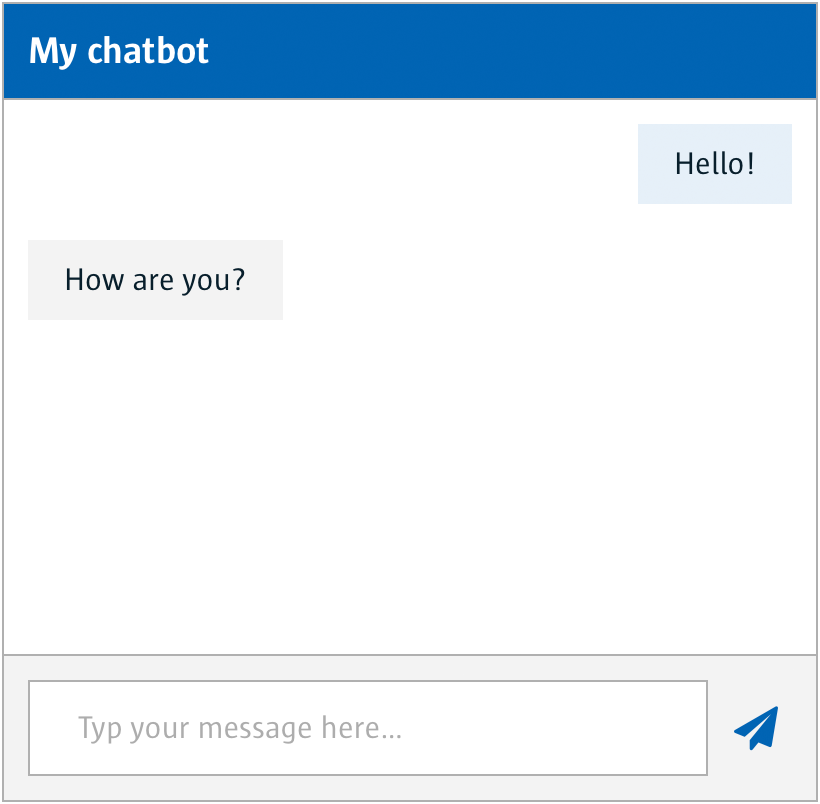
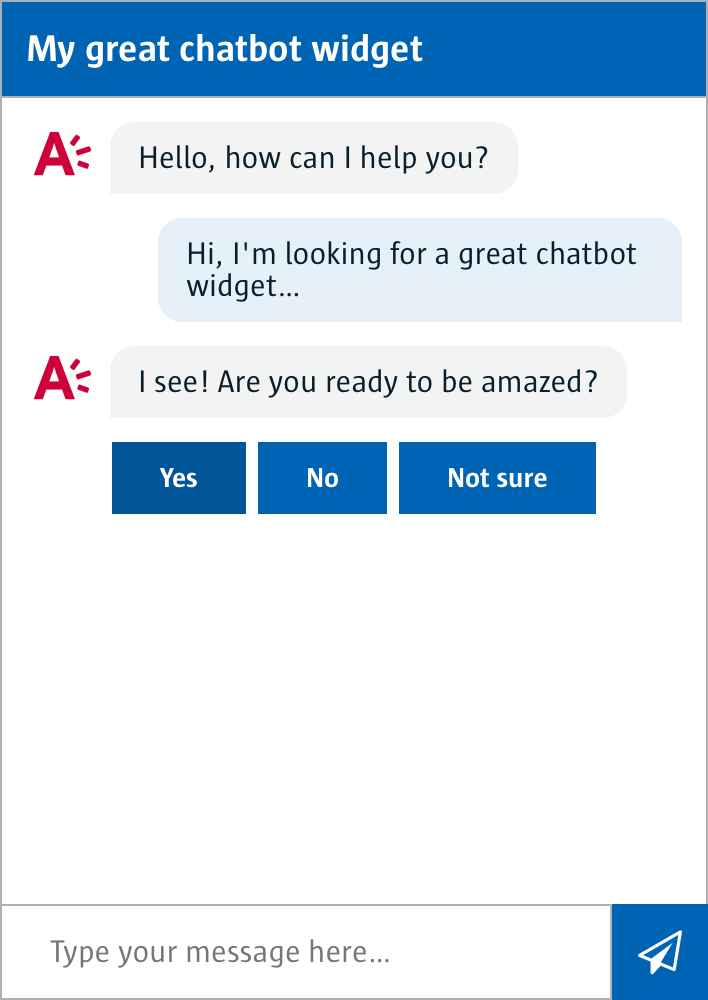
* PR remarks * Better screenshot

Changed region(s): [[0.0, 0.0, 1.0, 1.0], [0.2175, 0.1555, 0.9633, 0.342], [0.1554, 0.4353, 0.839, 0.5286]]

diff --git a/src/components/message/message.component.scss b/src/components/message/message.component.scss
@@ -69,7 +69,7 @@ $border-radius: $spacer-xs;
   &--right {
     justify-content: flex-end;
     margin: 0 0 0 $spacer;
-    text-align: center;
+    text-align: left;
 
     .m-message__text {
       background-color: mix($brand-primary, $white, 10%);

diff --git a/README.md b/README.md
@@ -4,7 +4,7 @@ With the chatbot smart widget you can simply implement a chatbot in any page.
 
 You will also need the BFF package in order to get the chatbot smart widget to work: [http://github.com/TriangleJuice/chatbot_service_nodejs](http://github.com/TriangleJuice/chatbot_service_nodejs)
 
-<img src="screenshot.png" alt="Chatbot screenshot" width="410" style="max-width:410px;width:100%">
+<img src="screenshot.png" alt="Chatbot screenshot" width="308" style="max-width:100%;width:100%">
 
 There is a demo app, see below for instructions on running it.
 
@@ -46,7 +46,7 @@ In the index.html, include the core branding stylesheet:
 <aui-chatbot
   url="http://localhost:3000/api/bff"
   session="123456789"
-  title="My chatbot"
+  title="My great chatbot widget"
   placeholder="Type your message here…"
   [pinned]="false"
   [delay]="200"
